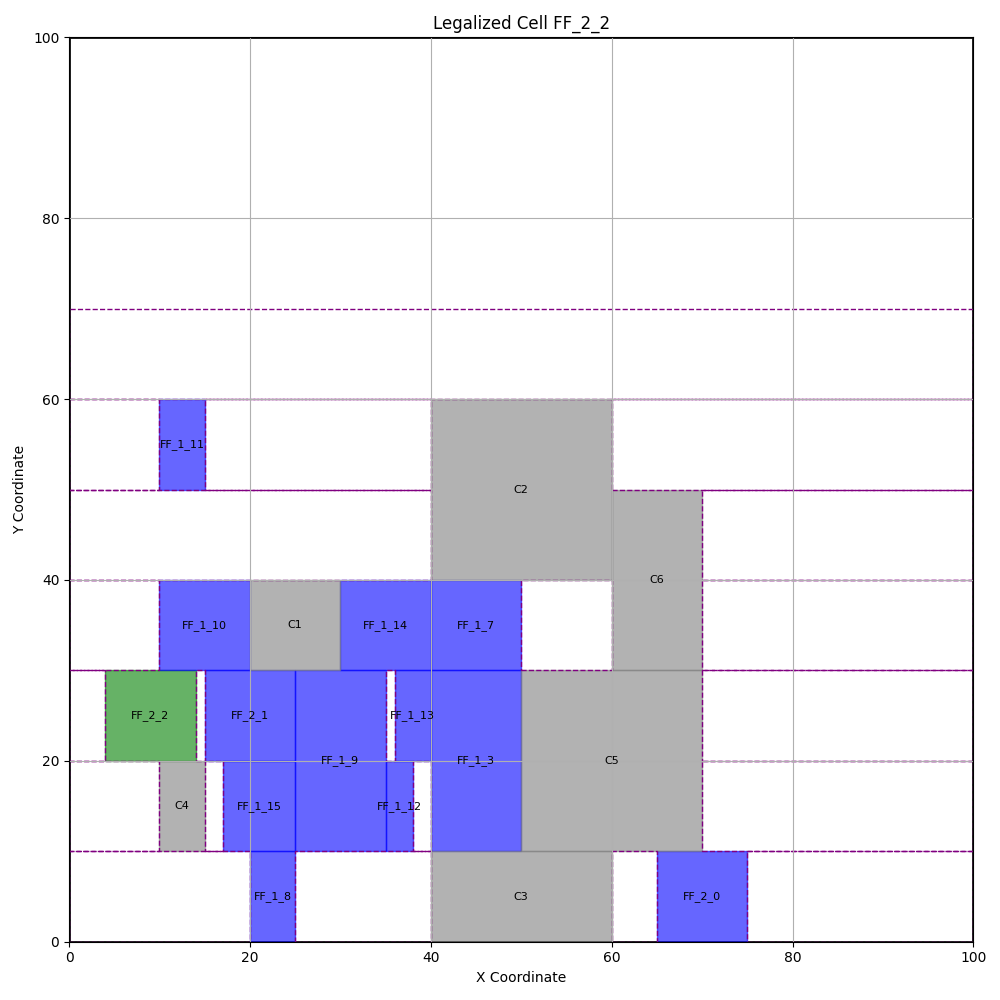
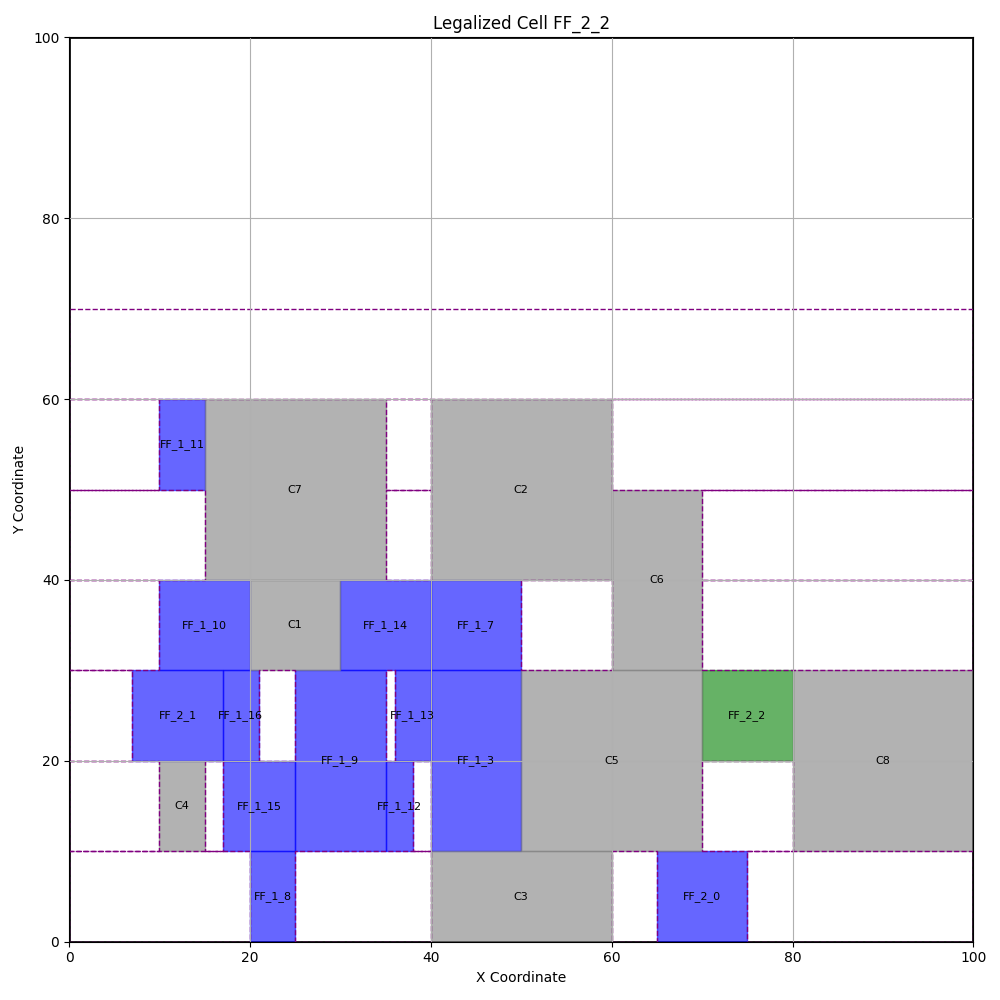
save debug

Changed region(s): [[0.682, 0.651, 0.992, 0.868], [0.186, 0.372, 0.403, 0.589], [0.093, 0.651, 0.31, 0.775]]

diff --git a/lab/Lab3/test/mp_plot_step.py b/lab/Lab3/test/mp_plot_step.py
@@ -7,16 +7,16 @@ import multiprocessing
 
 def read_file(filename):
     """
-    Reads the .txt file and extracts die size, cells, placeRows, and moved_ffs.
+    Reads the .lg file and extracts die size and cells.
     """
     cells = []
+    die_size = None
     placeRows = []
     moved_ffs = []
-    die_size = None
-    new_ff = None
 
     with open(filename, "r") as file:
         for line in file:
+            # Remove leading/trailing whitespaces
             line = line.strip()
             if line.startswith("DieSize"):
                 parts = line.split(" ")
@@ -28,30 +28,36 @@ def read_file(filename):
                 )
             elif line.startswith("FF") or line.startswith("C"):
                 parts = line.split(" ")
+                name = parts[0]
                 x, y = float(parts[1]), float(parts[2])
                 width, height = float(parts[3]), float(parts[4])
                 fixed = parts[5] == "FIX"
-                cells.append((x, y, width, height, fixed))
-            elif line.startswith("PlaceRow"):
+                cells.append((x, y, width, height, fixed, name))
+            elif line.startswith("moved ffs"):
+                # read a consective seq of ff names seperated with space
                 parts = line.split(" ")
-                placeRows.append(
-                    (float(parts[1]), float(parts[2]), float(parts[3]), float(parts[4]))
-                )
-            elif line.startswith("MovedFF"):
+                for i in range(2, len(parts)):
+                    name = parts[i]
+                    moved_ffs.append(name)
+            elif line.startswith("PlacementRows"):
                 parts = line.split(" ")
-                moved_ffs.append(parts[1])
-            elif line.startswith("NewFF"):
-                parts = line.split(" ")
-                new_ff = parts[1]
+                startY = float(parts[1])
+                height = float(parts[2])
+                free_sites = []
+                for i in range(3, len(parts)):
+                    x = parts[i].split(",")[0]
+                    width = parts[i].split(",")[1]
+                    free_sites.append((float(x), float(width)))
+                placeRows.append((startY, height, free_sites))
 
-    return die_size, cells, placeRows, moved_ffs, new_ff
+    return die_size, cells, placeRows, moved_ffs
 
 
 def plot_file(
     die_size, cells, placeRows, moved_ffs, output_filename_base, format, new_ff
 ):
     """
-    Plots the .txt file contents, including die size, cells, placeRows, and moved_ffs.
+    Plots the .lg file contents, including only die size and cells.
     """
     fig, ax = plt.subplots(figsize=(10, 10))
 
@@ -70,8 +76,24 @@ def plot_file(
         )
 
     # Plot cells
-    for x, y, width, height, fixed in cells:
-        color = "gray" if fixed else "blue"
+    for x, y, width, height, fixed, name in cells:
+        color = None
+        if fixed:
+            color = "gray"
+            alpha = 0.6
+        elif name == new_ff:
+            color = "green"
+            alpha = 0.6
+        elif name in moved_ffs:
+            color = "red"
+            alpha = 0.6
+        elif name + "_remove" == new_ff:
+            color = "orange"
+            alpha = 0.3
+        else:
+            color = "blue"
+            alpha = 0.6
+
         ax.add_patch(
             patches.Rectangle(
                 (x, y),
@@ -80,24 +102,43 @@ def plot_file(
                 edgecolor=color,
                 facecolor=color,
                 linewidth=1,
-                alpha=0.6,
+                alpha=alpha,
             )
         )
         # write the ff name at the center of the cell
         ax.text(
             x + width / 2,
             y + height / 2,
-            new_ff,
+            name,
             horizontalalignment="center",
             verticalalignment="center",
             fontsize=8,
             color="black",
         )
 
+    # plot the free sites in placement rows
+    # each with lower left corner at (x, startY) and width, plotted as rectangles with purple dashed lines as edges
+    for startY, height, free_sites in placeRows:
+        for x, width in free_sites:
+            ax.add_patch(
+                patches.Rectangle(
+                    (x, startY),
+                    width,
+                    height,
+                    edgecolor="purple",
+                    facecolor="none",
+                    linewidth=1,
+                    linestyle="--",
+                )
+            )
+
     # Formatting and saving
     ax.set_xlim(die_size[0], die_size[2])
     ax.set_ylim(die_size[1], die_size[3])
-    ax.set_title("Legalized Cell Placement")
+    if new_ff.find("remove") == -1:
+        ax.set_title("Legalized Cell " + new_ff)
+    else:
+        ax.set_title(new_ff)
     ax.set_xlabel("X Coordinate")
     ax.set_ylabel("Y Coordinate")
     ax.set_aspect("equal", adjustable="box")
@@ -105,12 +146,11 @@ def plot_file(
     plt.tight_layout()
 
     # if ../draw/plot/{output_filename_base} does not exist, create it
-    if not os.path.exists(output_filename_base):
-        os.makedirs(output_filename_base)
+    if not os.path.exists(f"{output_filename_base}"):
+        os.makedirs(f"{output_filename_base}")
 
     # Save both .png and .svg
-    plt.savefig(f"{output_filename_base}/{new_ff}.{format}")
-    plt.savefig(f"{output_filename_base}/{new_ff}.svg")
+    plt.savefig(f"{output_filename_base}" + "/" + new_ff + "." + format)
     plt.close()
 
 
@@ -119,14 +159,16 @@ def process_file(args):
     Worker function to process a single .txt file.
     """
     filename, casename = args
-    new_ff = os.path.splitext(os.path.basename(filename))[0]
+    print(filename)
+    # new_ff = os.path.splitext(os.path.basename(filename))[0]
+    new_ff = filename.split(".")[0]
     output_filename_base = f"../draw/plot/{casename}"
     print(output_filename_base)
     print(new_ff)
     lg_file = f"../draw/text/{filename}"
 
     # Read and plot the .txt file
-    die_size, cells, placeRows, moved_ffs, new_ff = read_file(lg_file)
+    die_size, cells, placeRows, moved_ffs = read_file(lg_file)
     format = "png"
     plot_file(
         die_size, cells, placeRows, moved_ffs, output_filename_base, format, new_ff
